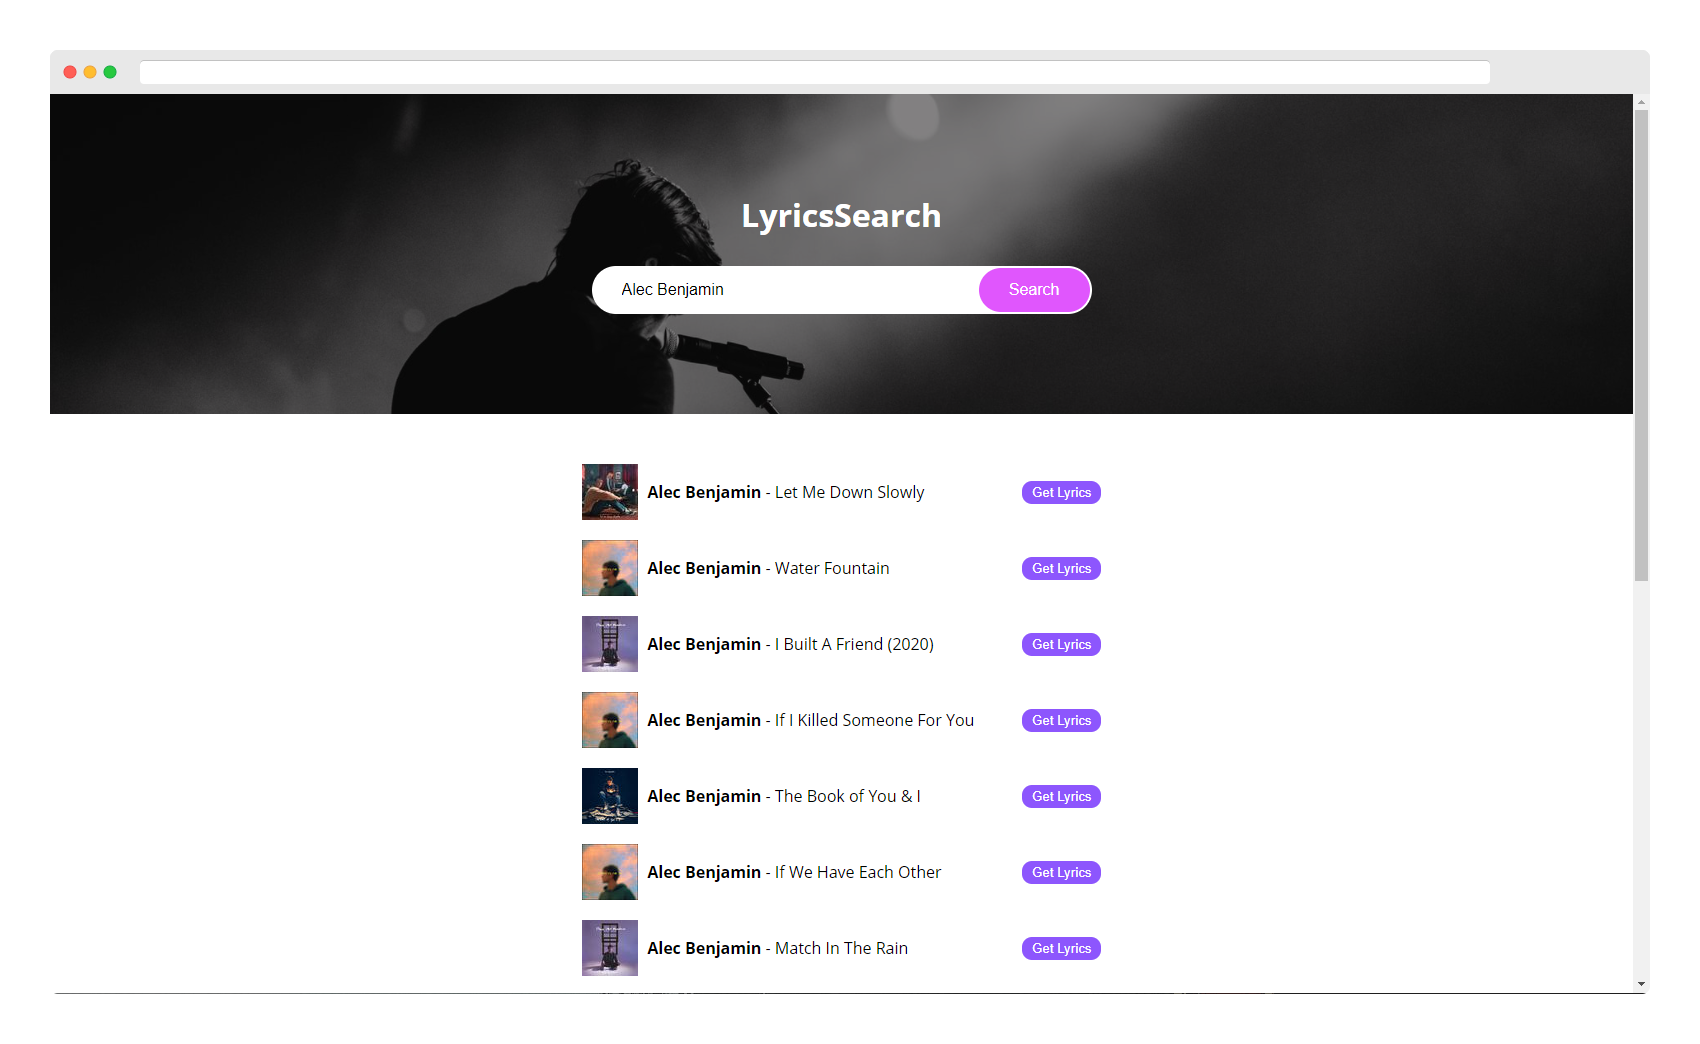
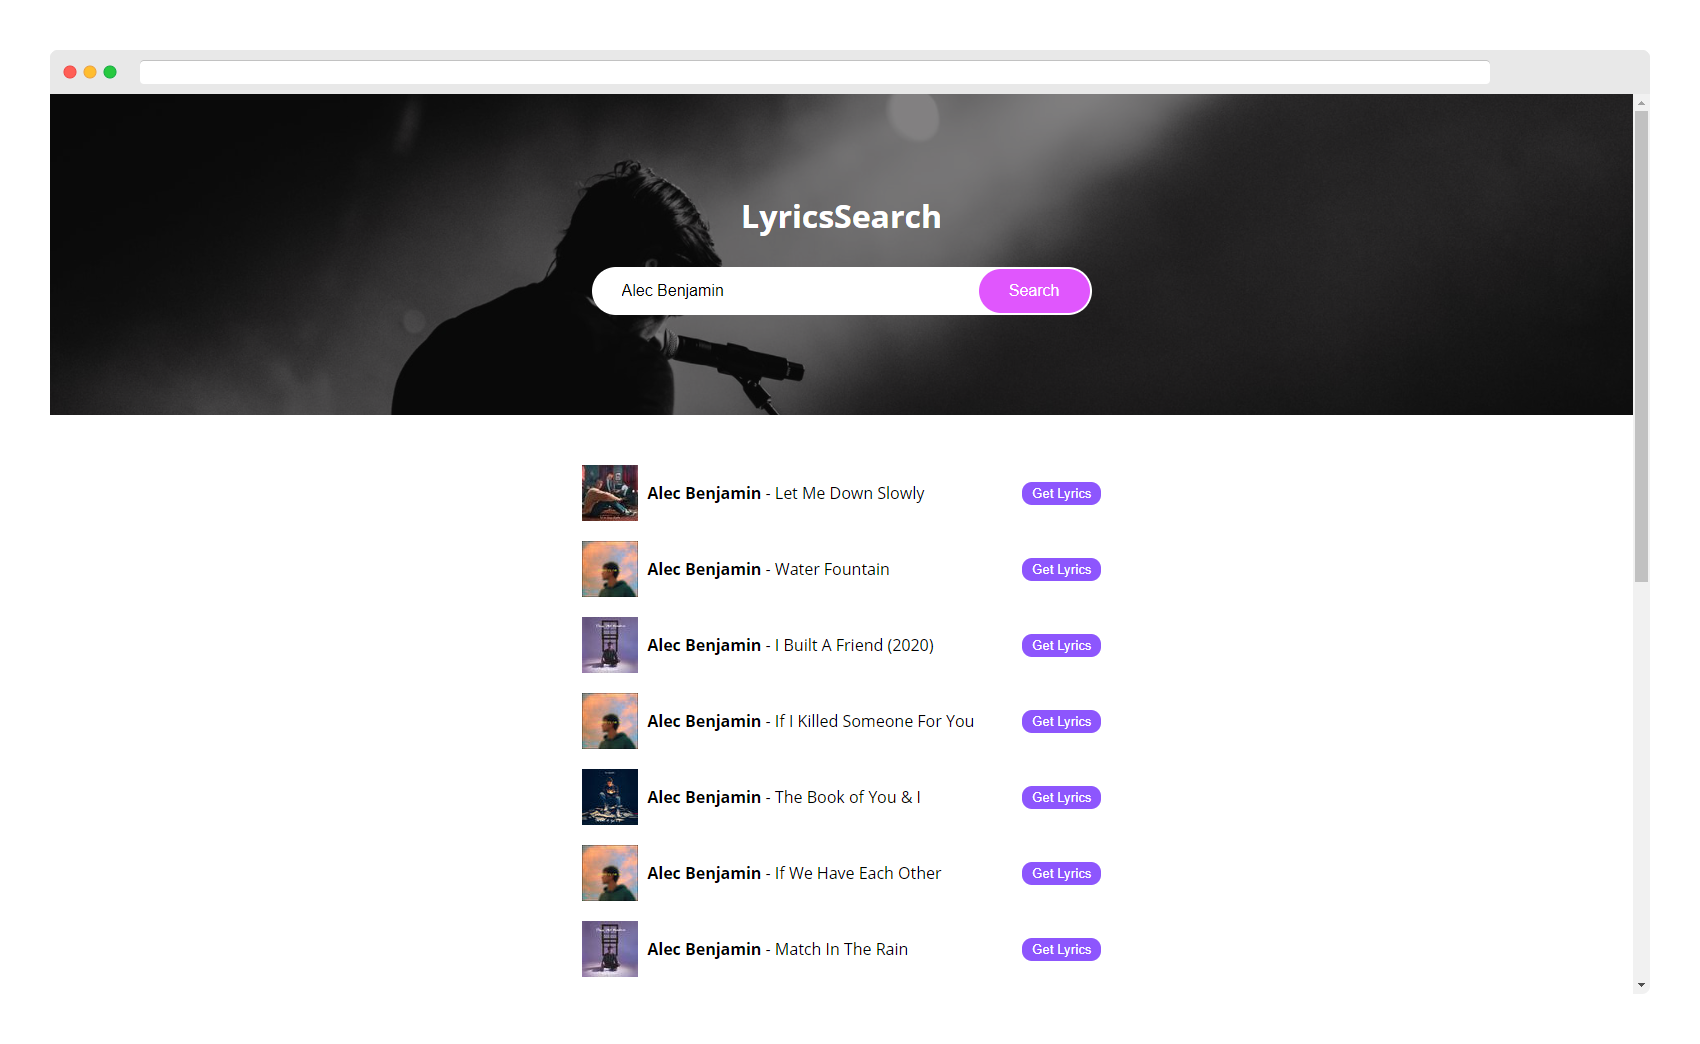
Bugfixed and site responsive complete

diff --git a/public/css/style.css b/public/css/style.css
@@ -24,7 +24,7 @@ body {
 }
 
 .site-header {
-  height: 100vh;
+  min-height: 100vh;
   width: 100%;
   display: -webkit-box;
   display: -ms-flexbox;
@@ -495,7 +495,7 @@ body {
     gap: 20px;
     width: 80vw;
     margin-top: 240px;
-    height: 100vh;
+    min-height: 100vh;
   }
   .header-container h1 {
     font-size: 30px;
@@ -544,13 +544,18 @@ body {
         align-self: start;
   }
   .udemy {
-    min-height: 50vh;
+    min-height: -webkit-fit-content;
+    min-height: -moz-fit-content;
+    min-height: fit-content;
     display: -ms-grid;
     display: grid;
     -ms-grid-columns: 1fr;
         grid-template-columns: 1fr;
-    -ms-grid-rows: 50% 50%;
-        grid-template-rows: 50% 50%;
+    -ms-grid-rows: 30% 50%;
+        grid-template-rows: 30% 50%;
+  }
+  .udemy div h1 {
+    font-size: 34px;
   }
 }
 

diff --git a/public/css/style.scss b/public/css/style.scss
@@ -18,7 +18,7 @@ body {
 }
 
 .site-header {
-  height: 100vh;
+  min-height: 100vh;
   width: 100%;
   display: flex;
   flex-direction: column;
@@ -361,7 +361,7 @@ body {
     gap: 20px;
     width: 80vw;
     margin-top: 240px;
-    height: 100vh;
+    min-height: 100vh;
   }
 
   .header-container {
@@ -411,10 +411,15 @@ body {
   }
 
   .udemy {
-    min-height: 50vh;
+    min-height: fit-content;
     display: grid;
     grid-template-columns: 1fr;
-    grid-template-rows: 50% 50%;
+    grid-template-rows: 30% 50%;
+    div {
+      h1 {
+        font-size: 34px;
+      }
+    }
   }
 }
 
